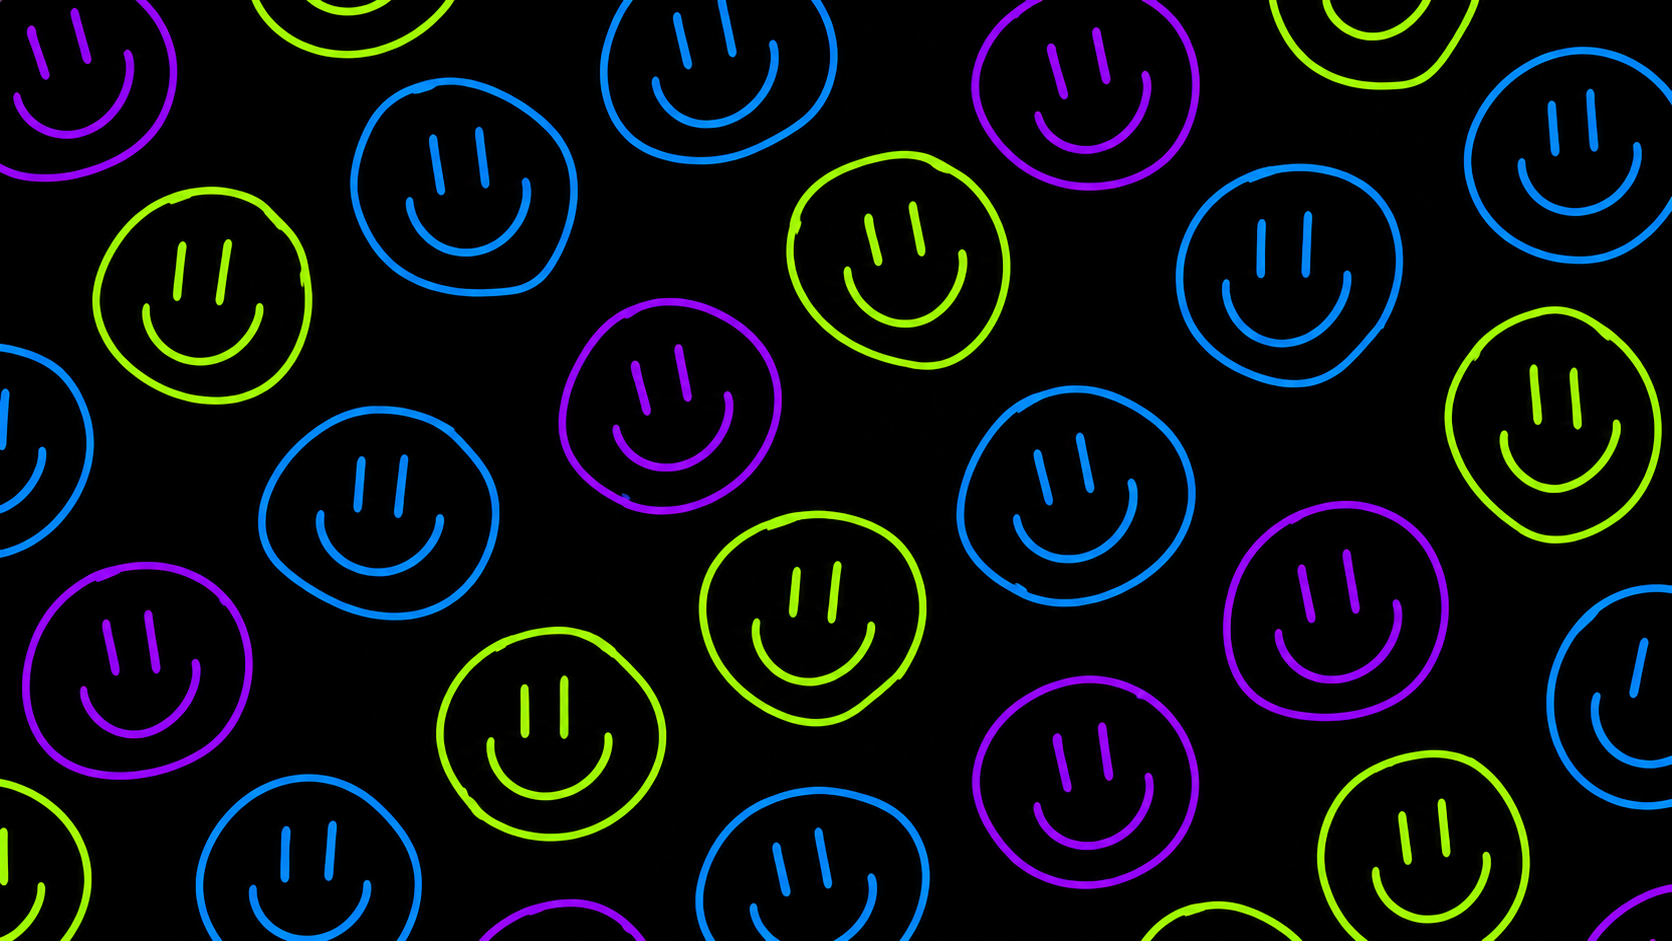
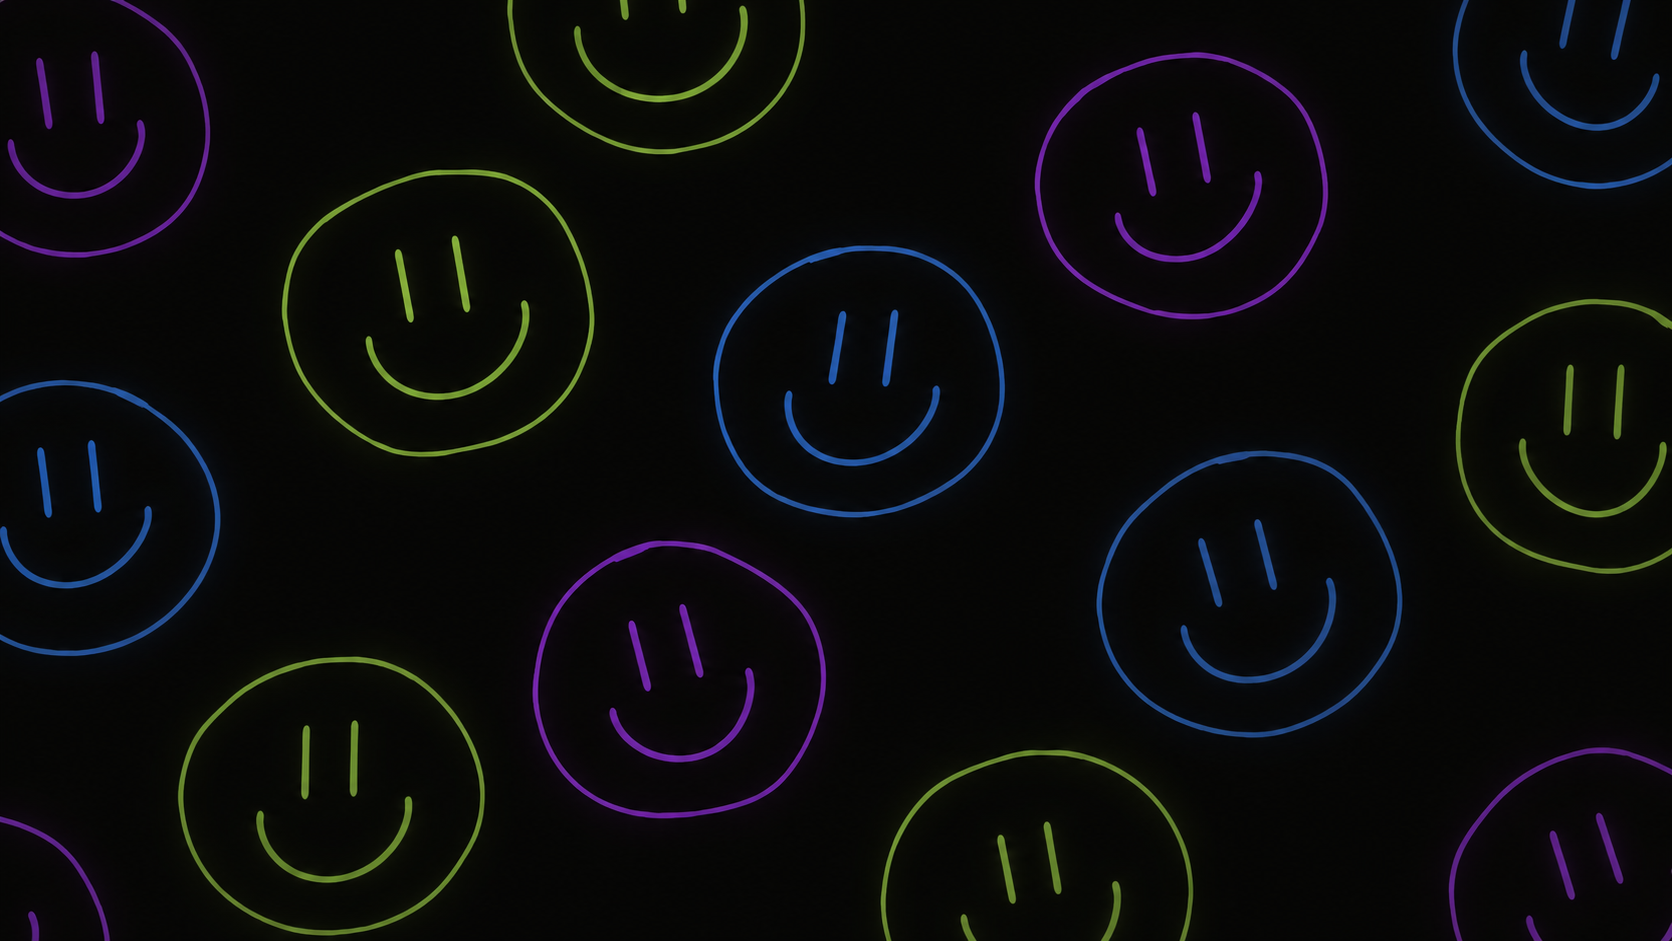
Redesign About page4

diff --git a/blog-frontend/src/pages/About.jsx b/blog-frontend/src/pages/About.jsx
@@ -57,7 +57,7 @@ const About = () => {
               </p>
 
               <p className="text-sm md:text-base text-white/70">
-                아마추어 Python / React 개발자
+                Universität Wien 석사 준비생
               </p>
             </div>
 
